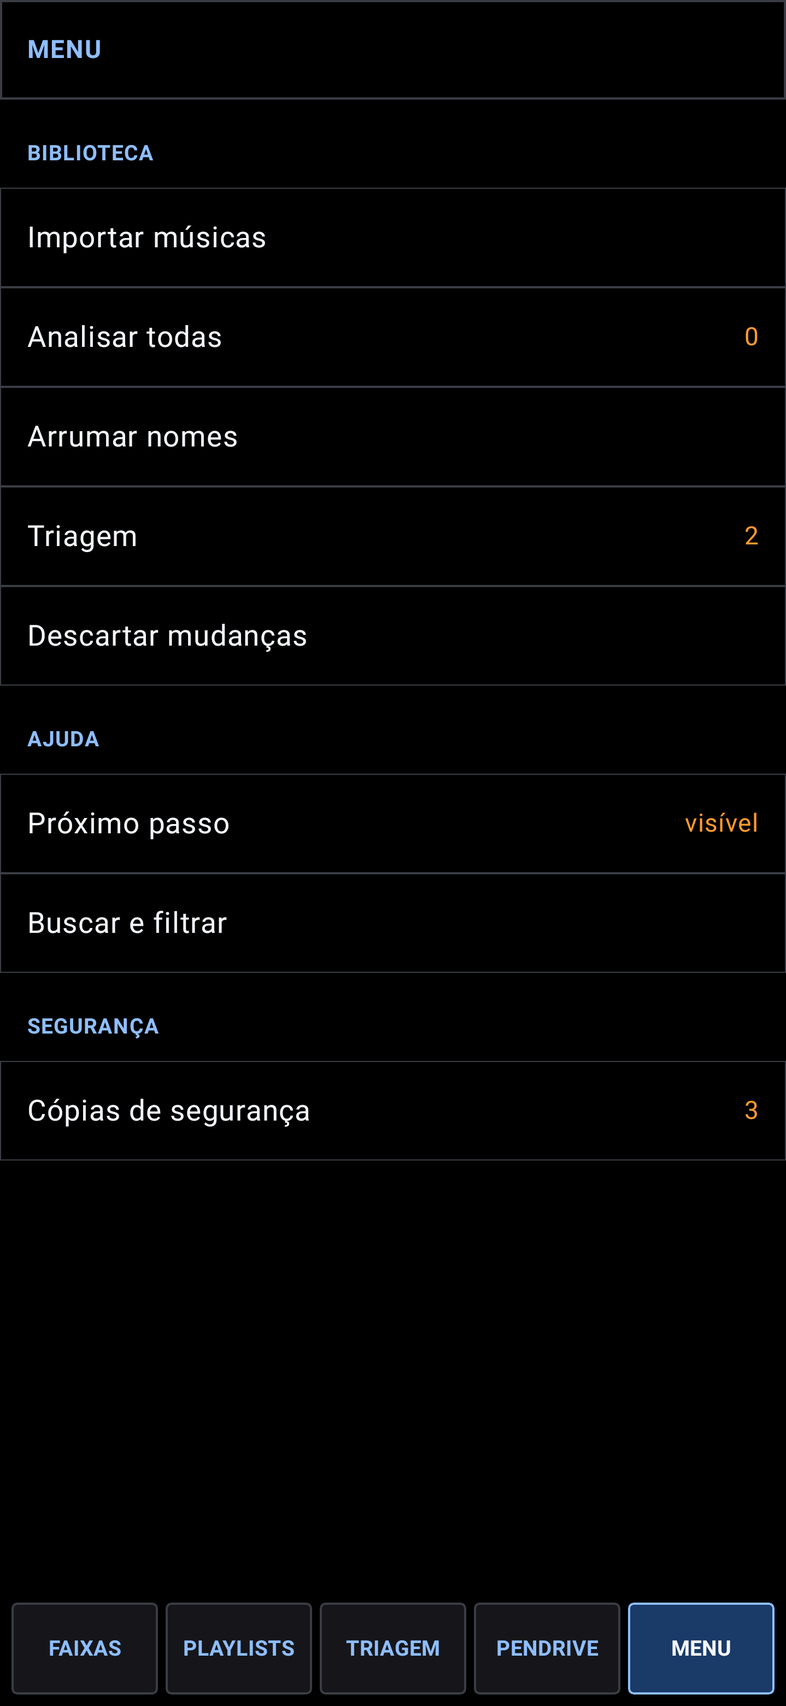
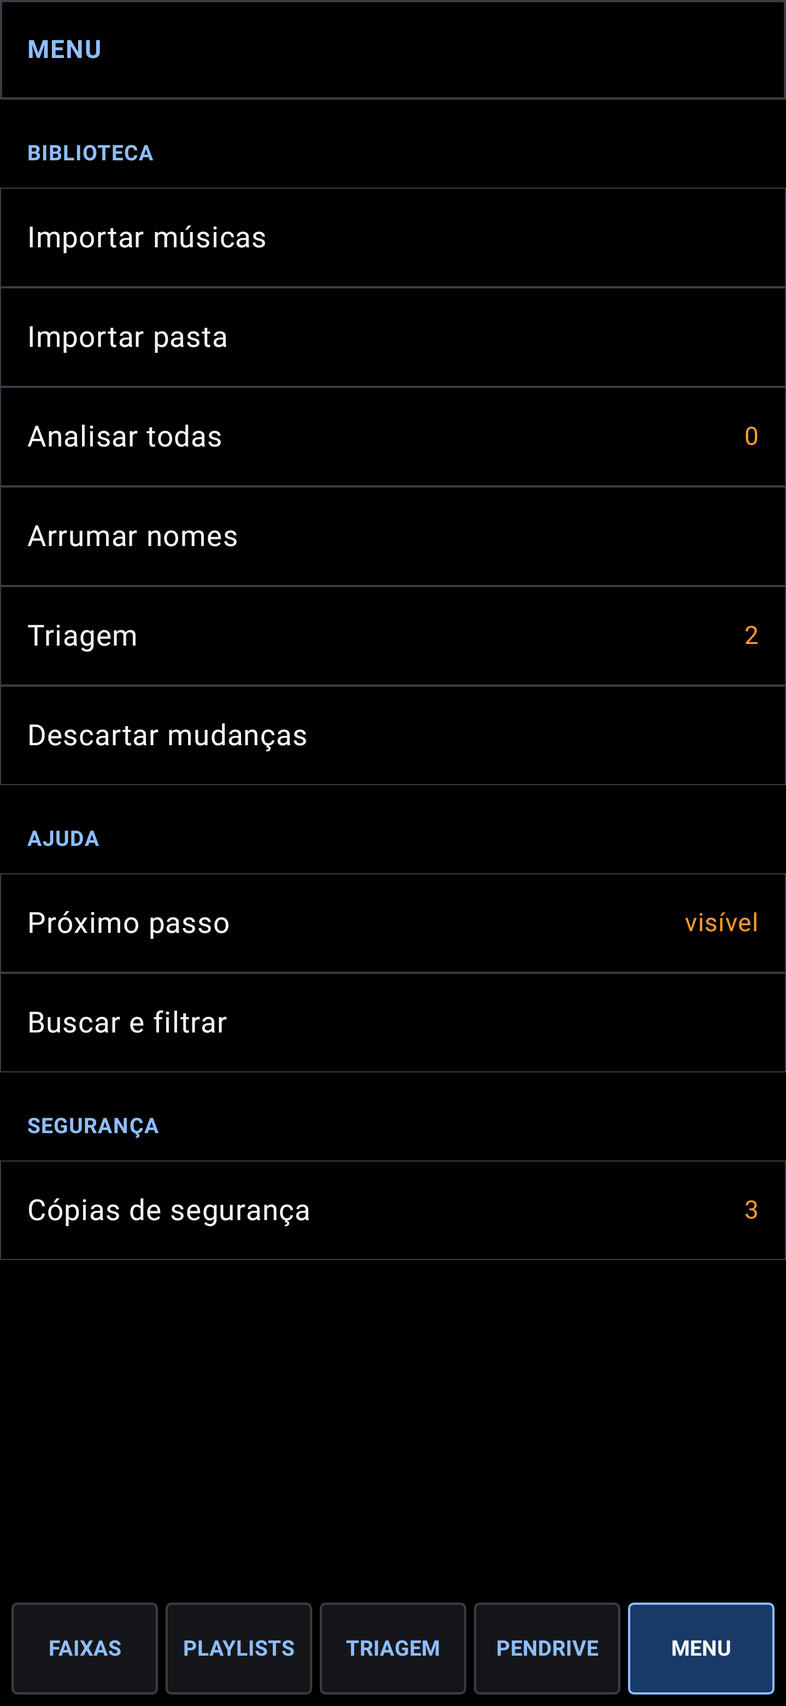
Ouvir pela onda (MARCAR e triagem), playlists como botões na faixa, importar pasta, pular repetidas, vibração ao marcar
Claude-Session: https://claude.ai/code/session_01Sb59H5wbN2UPN3Jxgrj5kb

diff --git a/mobile/app/src/main/kotlin/os/deckbridge/manager/mobile/ManagerApp.kt b/mobile/app/src/main/kotlin/os/deckbridge/manager/mobile/ManagerApp.kt
@@ -237,47 +237,83 @@ class ManagerApp(val context: Context, val root: File = defaultRoot(context)) {
 
     fun importAudio(uris: List<Uri>) {
         if (uris.isEmpty()) return
-        background("Importando ${uris.size} faixa(s)") { j ->
-            val cache = File(context.cacheDir, "importar").apply { deleteRecursively(); mkdirs() }
-            val edits = ArrayList<Pair<Edit, String>>()
-            var failed = 0
-            var imported = 0
-            val firstError = StringBuilder()
-            // Em lotes de 6: grava no aparelho e solta as análises da memória antes de seguir.
-            fun flush() {
-                if (edits.isEmpty()) return
-                imported += model.submitAll(edits)
-                edits.clear()
-                model.apply(null) { j.text = it }
-            }
-            try {
-                uris.forEachIndexed { n, uri ->
+        background("Importando") { j -> importInto(j, uris.mapIndexed { n, u -> u to (displayName(u) ?: "faixa-$n") }) }
+    }
+
+    /** Importa todos os áudios de uma pasta (e subpastas) escolhida no seletor. */
+    fun importFolder(tree: Uri) {
+        background("Importando pasta") { j ->
+            j.text = "Procurando músicas"
+            val root = androidx.documentfile.provider.DocumentFile.fromTreeUri(context, tree) ?: throw ExportException("E_SAF_ROOT", "Pasta ilegível")
+            val found = ArrayList<Pair<Uri, String>>()
+            fun walk(dir: androidx.documentfile.provider.DocumentFile) {
+                for (f in dir.listFiles()) {
                     if (j.cancelled) throw Cancelled()
-                    val name = displayName(uri) ?: "faixa-$n"
-                    j.text = "Lendo e analisando ${n + 1}/${uris.size}: $name"
-                    val copy = File(cache, "%03d-%s".format(n, name.replace(Regex("[\\\\/:*?\"<>|]"), "_")))
-                    try {
-                        context.contentResolver.openInputStream(uri)!!.use { i -> copy.outputStream().use { i.copyTo(it) } }
-                        val p = ImportPrep.prepare(copy)
-                        edits += Edit.ImportTrack(p, p.info.title, p.info.artist, p.info.album, p.info.genre, p.read.keyName, p.info.year, p.info.trackNumber, p.suggestedCues) to "Importar \"${p.info.title}\""
-                        if (edits.size >= 6) {
-                            flush()
-                            copy.parentFile?.listFiles()?.forEach { f -> if (f != copy) f.delete() }
-                        }
-                    } catch (e: Cancelled) {
-                        throw e
-                    } catch (e: Exception) {
-                        failed++
-                        if (firstError.isEmpty()) firstError.append("$name: ${e.message}")
-                    }
+                    val name = f.name ?: continue
+                    if (f.isDirectory) walk(f) else if (os.deckbridge.manager.volume.isAudio(name)) found += f.uri to name
                 }
-                flush()
-                pruneBackups()
-                if (imported > 0) say("$imported importadas" + if (failed > 0) " · $failed falharam" else "", undo = false)
-                else say("Não importou: $firstError", error = true)
-            } finally {
-                cache.deleteRecursively()
             }
+            walk(root)
+            if (found.isEmpty()) say("Nenhuma música na pasta", error = true) else importInto(j, found.sortedBy { it.second.lowercase() })
+        }
+    }
+
+    /**
+     * Copia, confere se já existe, analisa e grava em lotes de 6 (grava no aparelho e solta as análises da memória antes
+     * de seguir). Música que já está na biblioteca (mesmo título, artista e duração) é pulada.
+     */
+    private fun importInto(j: Job, items: List<Pair<Uri, String>>) {
+        val cache = File(context.cacheDir, "importar").apply { deleteRecursively(); mkdirs() }
+        val edits = ArrayList<Pair<Edit, String>>()
+        val seen = HashSet<String>()
+        var failed = 0
+        var imported = 0
+        var dups = 0
+        val firstError = StringBuilder()
+        fun flush() {
+            if (edits.isEmpty()) return
+            imported += model.submitAll(edits)
+            edits.clear()
+            model.apply(null) { j.text = it }
+        }
+        try {
+            items.forEachIndexed { n, (uri, name) ->
+                if (j.cancelled) throw Cancelled()
+                j.text = "${n + 1}/${items.size} · $name"
+                val copy = File(cache, "%03d-%s".format(n, name.replace(Regex("[\\\\/:*?\"<>|]"), "_")))
+                try {
+                    context.contentResolver.openInputStream(uri)!!.use { i -> copy.outputStream().use { i.copyTo(it) } }
+                    val info = os.deckbridge.manager.importer.AudioIo.probe(copy)
+                    val key = "${info.title.lowercase().trim()}|${info.artist.lowercase().trim()}"
+                    val v = model.view
+                    if ((v != null && Smart.findDuplicate(v, info.title, info.artist, info.durationSec) != null) || !seen.add(key)) {
+                        dups++
+                        copy.delete()
+                        return@forEachIndexed
+                    }
+                    val p = ImportPrep.prepare(copy)
+                    edits += Edit.ImportTrack(p, p.info.title, p.info.artist, p.info.album, p.info.genre, p.read.keyName, p.info.year, p.info.trackNumber, p.suggestedCues) to "Importar \"${p.info.title}\""
+                    if (edits.size >= 6) {
+                        flush()
+                        copy.parentFile?.listFiles()?.forEach { f -> if (f != copy) f.delete() }
+                    }
+                } catch (e: Cancelled) {
+                    throw e
+                } catch (e: Exception) {
+                    failed++
+                    if (firstError.isEmpty()) firstError.append("$name: ${e.message}")
+                }
+            }
+            flush()
+            pruneBackups()
+            val parts = buildList {
+                if (imported > 0) add("$imported importadas")
+                if (dups > 0) add("$dups já estavam")
+                if (failed > 0) add("$failed falharam")
+            }
+            if (imported == 0 && dups == 0) say("Não importou: $firstError", error = true) else say(parts.joinToString(" · "))
+        } finally {
+            cache.deleteRecursively()
         }
     }
 

diff --git a/mobile/app/src/main/kotlin/os/deckbridge/manager/mobile/DetailUi.kt b/mobile/app/src/main/kotlin/os/deckbridge/manager/mobile/DetailUi.kt
@@ -77,7 +77,9 @@ fun DetailPanel(app: ManagerApp, t: TrackItem, onBack: (() -> Unit)? = null) {
         Column(Modifier.weight(1f).verticalScroll(rememberScrollState()).padding(horizontal = 14.dp, vertical = 6.dp), verticalArrangement = Arrangement.spacedBy(16.dp)) {
             when (app.detailPage) {
                 DetailPage.MARK -> {
+                    PlayableWave(app, t)
                     Marking(app, t)
+                    PlaylistChips(app, t)
                     AnalysisSection(app, t)
                 }
                 DetailPage.CUES -> CueSection(app, t)
@@ -117,6 +119,32 @@ private fun Marking(app: ManagerApp, t: TrackItem) {
             }
         }
     }
+}
+
+/** Em que playlists a faixa está: tocar liga e desliga. "＋" cria uma nova já com a faixa. */
+@Composable
+private fun PlaylistChips(app: ManagerApp, t: TrackItem) {
+    val m = app.model
+    val v = m.view ?: return
+    var naming by remember { mutableStateOf(false) }
+    val haptic = androidx.compose.ui.platform.LocalHapticFeedback.current
+    androidx.compose.foundation.lazy.LazyRow(horizontalArrangement = Arrangement.spacedBy(6.dp)) {
+        items(v.playlists.filter { !it.folder }.size) { n ->
+            val p = v.playlists.filter { !it.folder }[n]
+            val inIt = t.id in v.entries[p.id].orEmpty()
+            FilterChip(selected = inIt, onClick = {
+                haptic.performHapticFeedback(androidx.compose.ui.hapticfeedback.HapticFeedbackType.LongPress)
+                if (inIt) m.submit(Edit.RemoveFromPlaylist(p.id, listOf(t.id)), "Tirar \"${t.title}\" de \"${p.name}\"")
+                else m.submit(Edit.AddToPlaylist(p.id, listOf(t.id)), "Adicionar \"${t.title}\" a \"${p.name}\"")
+            }, label = { Text((if (inIt) "✓ " else "") + p.name, maxLines = 1) })
+        }
+        item { FilterChip(selected = false, onClick = { naming = true }, label = { Text("＋") }) }
+    }
+    if (naming) NameDialog("Nova playlist", confirm = "Criar", onName = { name ->
+        val id = m.nextPlaylistId()
+        if (m.submit(Edit.CreatePlaylist(id, 0, name, false), "Criar playlist \"$name\"")) m.submit(Edit.AddToPlaylist(id, listOf(t.id)), "Adicionar \"${t.title}\" a \"$name\"")
+        naming = false
+    }, onClose = { naming = false })
 }
 
 @Composable
@@ -227,11 +255,16 @@ private fun GridEditor(m: ManagerModel, t: TrackItem, files: ManagerModel.TrackF
  * Toque ou arraste para mudar a posição.
  */
 @Composable
-private fun Wave(files: ManagerModel.TrackFilesView, durationMs: Int, pos: Int, onPos: (Int) -> Unit) {
+private fun Wave(files: ManagerModel.TrackFilesView, durationMs: Int, pos: Int, onPos: (Int) -> Unit) =
+    ColorWaveView(files, durationMs, pos, 96.dp, marks = true, onPos = onPos, drag = true)
+
+/** A onda do player em qualquer tamanho. [marks] desenha grade e cues; [pos] negativo esconde a cabeça. */
+@Composable
+fun ColorWaveView(files: ManagerModel.TrackFilesView, durationMs: Int, pos: Int, height: androidx.compose.ui.unit.Dp, marks: Boolean, drag: Boolean = false, onPos: (Int) -> Unit) {
     Canvas(
-        Modifier.fillMaxWidth().height(96.dp).background(Palette.waveBg)
+        Modifier.fillMaxWidth().height(height).background(Palette.waveBg)
             .pointerInput(durationMs) { detectTapGestures { o -> onPos((o.x / size.width * durationMs).toInt().coerceIn(0, durationMs)) } }
-            .pointerInput(durationMs) { detectDragGestures { change, _ -> onPos((change.position.x / size.width * durationMs).toInt().coerceIn(0, durationMs)) } },
+            .let { if (drag) it.pointerInput(durationMs) { detectDragGestures { change, _ -> onPos((change.position.x / size.width * durationMs).toInt().coerceIn(0, durationMs)) } } else it },
     ) {
         val w = size.width
         val h = size.height
@@ -255,7 +288,7 @@ private fun Wave(files: ManagerModel.TrackFilesView, durationMs: Int, pos: Int, 
             drawLine(Palette.line, Offset(0f, mid), Offset(w, mid), 2f)
         }
         // Grade só como marcas curtas em cima e embaixo, para não cobrir a onda.
-        for (b in files.beats) {
+        if (marks) for (b in files.beats) {
             val x = b.timeMs.toFloat() / durationMs * w
             val bar = b.inBar == 1
             val len = if (bar) h * 0.16f else h * 0.07f
@@ -263,15 +296,39 @@ private fun Wave(files: ManagerModel.TrackFilesView, durationMs: Int, pos: Int, 
             drawLine(color, Offset(x, 0f), Offset(x, len), if (bar) 2f else 1f)
             drawLine(color, Offset(x, h - len), Offset(x, h), if (bar) 2f else 1f)
         }
-        for (c in files.cues) {
+        if (marks) for (c in files.cues) {
             val x = c.timeMs.toFloat() / durationMs * w
             val color = if (c.isHot) rgb(c.rgb ?: padRgb(c.hot)) else Palette.orange
             drawLine(color, Offset(x, 0f), Offset(x, h), 2f)
             drawRect(color, Offset(x - 6f, 0f), Size(12f, 12f))
         }
-        val px = pos.toFloat() / durationMs * w
-        drawLine(Palette.text, Offset(px, 0f), Offset(px, h), 3f)
+        if (pos >= 0) {
+            val px = pos.toFloat() / durationMs * w
+            drawLine(Palette.text, Offset(px, 0f), Offset(px, h), 3f)
+        }
     }
+}
+
+/**
+ * Onda pequena que toca: tocar num ponto ouve dali; enquanto toca, a cabeça anda. Usada na aba MARCAR e na triagem,
+ * para decidir sem abrir os cues.
+ */
+@Composable
+fun PlayableWave(app: ManagerApp, t: TrackItem, height: androidx.compose.ui.unit.Dp = 56.dp) {
+    val m = app.model
+    val files = remember(t.id, t.analyzePath, m.pending.size) { m.trackFiles(t) }
+    if (files.error != null) return
+    val duration = files.durationMs.coerceAtLeast(1)
+    var head by remember(t.id) { mutableIntStateOf(-1) }
+    val playing = app.preview.playingId == t.id
+    androidx.compose.runtime.LaunchedEffect(playing) {
+        while (playing && app.preview.playingId == t.id) {
+            head = app.preview.positionMs()
+            kotlinx.coroutines.delay(100)
+        }
+        head = -1
+    }
+    ColorWaveView(files, duration, if (playing) head else -1, height, marks = false) { ms -> app.preview.toggle(t, fromMs = ms.coerceAtLeast(1)) }
 }
 
 @Composable

diff --git a/mobile/app/src/main/kotlin/os/deckbridge/manager/mobile/TriageUi.kt b/mobile/app/src/main/kotlin/os/deckbridge/manager/mobile/TriageUi.kt
@@ -83,7 +83,9 @@ private fun TrackCard(app: ManagerApp, t: TrackItem) {
     Column(Modifier.fillMaxWidth(), verticalArrangement = Arrangement.spacedBy(4.dp)) {
         Text(t.title.ifEmpty { t.fileName }, color = Palette.text, fontSize = 24.sp, fontWeight = FontWeight.Bold, maxLines = 2, overflow = TextOverflow.Ellipsis)
         Text(t.artist.ifEmpty { "—" }, color = Palette.muted, fontSize = 16.sp, maxLines = 1)
-        Text(listOf(if (t.bpm > 0) "%.1f".format(t.bpm) else "—", t.key.ifEmpty { "—" }, formatDuration(t.durationSeconds)).joinToString("  ·  "), color = Palette.mutedBright, fontSize = 15.sp, fontFamily = Mono, modifier = Modifier.padding(top = 4.dp))
+        Text(listOf(if (t.bpm > 0) "%.1f".format(t.bpm) else "—", t.key.ifEmpty { "—" }, formatDuration(t.durationSeconds)).joinToString("  ·  "), color = Palette.mutedBright, fontSize = 15.sp, fontFamily = Mono, modifier = Modifier.padding(top = 4.dp, bottom = 6.dp))
+        // Tocar na onda ouve daquele ponto: dá para pular direto para o drop.
+        PlayableWave(app, t, 64.dp)
         // Botão de tocar na cor do PLAY do player: verde-claro com texto escuro.
         Box(Modifier.fillMaxWidth().padding(top = 6.dp).height(52.dp).clip(RbShape).background(if (playing) Palette.surfaceHigh else Palette.playBg).clickable { app.preview.toggle(t) }, contentAlignment = Alignment.Center) {
             Text(if (playing) "■ PARAR" else "▶ OUVIR", color = if (playing) Palette.blue else Palette.playInk, fontWeight = FontWeight.Bold, letterSpacing = 0.6.sp)
@@ -96,7 +98,9 @@ private fun Controls(app: ManagerApp, t: TrackItem, at: Int, total: Int, compact
     val big = if (compact) 52.dp else 64.dp
     val mid = if (compact) 44.dp else 56.dp
     val m = app.model
+    val haptic = androidx.compose.ui.platform.LocalHapticFeedback.current
     fun rate(n: Int) {
+        haptic.performHapticFeedback(androidx.compose.ui.hapticfeedback.HapticFeedbackType.LongPress)
         m.submit(Edit.SetTracks(listOf(t.id), TrackPatch(rating = n)), "Nota $n em \"${t.title}\"")
         advance()
     }

diff --git a/mobile/app/src/main/kotlin/os/deckbridge/manager/mobile/LibraryUi.kt b/mobile/app/src/main/kotlin/os/deckbridge/manager/mobile/LibraryUi.kt
@@ -146,8 +146,9 @@ private fun EmptyList(app: ManagerApp, actions: Actions) {
     Column(Modifier.fillMaxWidth().padding(28.dp), horizontalAlignment = Alignment.CenterHorizontally, verticalArrangement = Arrangement.spacedBy(12.dp)) {
         if (m.view?.tracks?.isEmpty() == true) {
             Text("A biblioteca está vazia.", color = Palette.text, fontSize = 18.sp, fontWeight = FontWeight.SemiBold)
-            Text("Importe músicas do aparelho (WAV, MP3, FLAC, AAC). Elas são analisadas aqui mesmo: BPM, tom, grade e cues.", color = Palette.muted, fontSize = 14.sp)
+            Text("WAV · MP3 · FLAC · AAC", color = Palette.muted, fontSize = 14.sp)
             Button(onClick = actions.pickAudio, modifier = Modifier.height(52.dp)) { Text("IMPORTAR MÚSICAS") }
+            OutlinedButton(onClick = actions.pickFolder, modifier = Modifier.height(48.dp)) { Text("IMPORTAR PASTA") }
         } else {
             Text("Nenhuma faixa nesta lista.", color = Palette.text, fontSize = 18.sp, fontWeight = FontWeight.SemiBold)
             Text(if (m.filter != QuickFilter.ALL) m.filter.hint else "Mude a busca.", color = Palette.muted, fontSize = 14.sp)

diff --git a/core/src/main/kotlin/os/deckbridge/manager/smart/Smart.kt b/core/src/main/kotlin/os/deckbridge/manager/smart/Smart.kt
@@ -165,6 +165,19 @@ object Smart {
         return out
     }
 
+    private fun norm(x: String) = x.lowercase().replace(Regex("\\s+"), " ").trim()
+
+    /**
+     * A faixa que já está na biblioteca com o mesmo título e artista (sem diferença de caixa e espaços) e duração a até
+     * 2 s; null se não há. Serve para não importar a mesma música duas vezes.
+     */
+    fun findDuplicate(view: LibraryView, title: String, artist: String, durationSec: Int): TrackItem? {
+        val t = norm(title)
+        val a = norm(artist)
+        if (t.isEmpty()) return null
+        return view.tracks.firstOrNull { norm(it.title) == t && norm(it.artist) == a && kotlin.math.abs(it.durationSeconds - durationSec) <= 2 }
+    }
+
     /** Fila da triagem: sem nota primeiro, na ordem em que foram importadas; depois as já marcadas. */
     fun triageQueue(view: LibraryView): List<Int> = view.tracks.sortedWith(compareBy({ it.rating != 0 }, { it.id })).map { it.id }
 

diff --git a/mobile/app/src/main/kotlin/os/deckbridge/manager/mobile/ManagerActivity.kt b/mobile/app/src/main/kotlin/os/deckbridge/manager/mobile/ManagerActivity.kt
@@ -62,7 +62,8 @@ class ManagerActivity : ComponentActivity() {
 private fun Content(app: ManagerApp) {
     val pickAudio = rememberLauncherForActivityResult(ActivityResultContracts.OpenMultipleDocuments()) { uris: List<Uri> -> app.importAudio(uris) }
     val pickUsb = rememberLauncherForActivityResult(ActivityResultContracts.OpenDocumentTree()) { uri: Uri? -> if (uri != null) app.chooseUsb(uri) }
+    val pickFolder = rememberLauncherForActivityResult(ActivityResultContracts.OpenDocumentTree()) { uri: Uri? -> if (uri != null) app.importFolder(uri) }
     LaunchedEffect(Unit) { if (!app.model.isOpen) app.start() }
-    val actions = remember { Actions(pickAudio = { pickAudio.launch(arrayOf("audio/*")) }, pickUsb = { pickUsb.launch(null) }) }
+    val actions = remember { Actions(pickAudio = { pickAudio.launch(arrayOf("audio/*")) }, pickUsb = { pickUsb.launch(null) }, pickFolder = { pickFolder.launch(null) }) }
     ManagerRoot(app, actions)
 }

diff --git a/mobile/app/src/test/kotlin/os/deckbridge/manager/mobile/UxFlowTest.kt b/mobile/app/src/test/kotlin/os/deckbridge/manager/mobile/UxFlowTest.kt
@@ -93,4 +93,19 @@ class UxFlowTest {
         assertTrue(a.model.rows().all { it.rating >= 4 })
         assertTrue(a.model.rows().isNotEmpty())
     }
+
+    @Test fun playlistChipsOnTheTrackToggleMembershipInOneTap() {
+        val a = app()
+        a.hideGuide()
+        val t = a.model.view!!.tracks.first { it.title == "Night Signal" }
+        assertTrue(t.id !in a.model.view!!.entries[2].orEmpty())
+        a.detailId = t.id
+        rule.setContent { ManagerRoot(a, noActions) }
+        rule.onNodeWithText("Aquecimento").performClick()
+        rule.waitForIdle()
+        assertTrue(t.id in a.model.view!!.entries[2].orEmpty())
+        rule.onNodeWithText("✓ Aquecimento").performClick()
+        rule.waitForIdle()
+        assertTrue(t.id !in a.model.view!!.entries[2].orEmpty())
+    }
 }

diff --git a/core/src/test/kotlin/os/deckbridge/manager/SmartTest.kt b/core/src/test/kotlin/os/deckbridge/manager/SmartTest.kt
@@ -92,4 +92,12 @@ class SmartTest {
         val v = view(listOf(t(1, rating = 5), t(2), t(3, rating = 1), t(4)))
         assertEquals(listOf(2, 4, 1, 3), Smart.triageQueue(v))
     }
+
+    @Test fun `duplicata por titulo, artista e duracao`() {
+        val v = view(listOf(t(1, title = "Night Signal", artist = "Aurora Drive").copy(durationSeconds = 300)))
+        assertEquals(1, Smart.findDuplicate(v, "  night   SIGNAL ", "aurora drive", 301)?.id)
+        assertNull(Smart.findDuplicate(v, "Night Signal", "Aurora Drive", 310), "duração muito diferente: outra versão")
+        assertNull(Smart.findDuplicate(v, "Night Signal", "Outro Artista", 300))
+        assertNull(Smart.findDuplicate(v, "", "", 300))
+    }
 }

diff --git a/mobile/app/src/main/kotlin/os/deckbridge/manager/mobile/MenuUi.kt b/mobile/app/src/main/kotlin/os/deckbridge/manager/mobile/MenuUi.kt
@@ -31,6 +31,7 @@ fun MenuTab(app: ManagerApp, actions: Actions) {
     Column(Modifier.fillMaxSize().verticalScroll(rememberScrollState())) {
         Section("Biblioteca")
         Line("Importar músicas", "") { actions.pickAudio() }
+        Line("Importar pasta", "") { actions.pickFolder() }
         Line("Analisar todas", "${counts[QuickFilter.UNANALYZED] ?: 0}") { app.analyzeAll() }
         Line("Arrumar nomes", "") { app.openTidy() }
         Line("Triagem", "${counts[QuickFilter.UNRATED] ?: 0}") { app.startTriage() }

diff --git a/mobile/app/src/main/kotlin/os/deckbridge/manager/mobile/Preview.kt b/mobile/app/src/main/kotlin/os/deckbridge/manager/mobile/Preview.kt
@@ -28,6 +28,9 @@ class Preview(private val app: ManagerApp) {
 
     val isPlaying: Boolean get() = player != null
 
+    /** Posição atual em ms (0 se parado), para a cabeça andar sobre a onda. */
+    fun positionMs(): Int = runCatching { player?.currentPosition ?: 0 }.getOrDefault(0)
+
     fun toggle(t: TrackItem, fromMs: Int = 0) {
         if (playingId == t.id && fromMs == 0) {
             stop()

diff --git a/mobile/app/src/main/kotlin/os/deckbridge/manager/mobile/Ui.kt b/mobile/app/src/main/kotlin/os/deckbridge/manager/mobile/Ui.kt
@@ -214,4 +214,4 @@ private fun NoticeToast(app: ManagerApp) {
 }
 
 /** O que a tela pede à atividade (seletores de arquivo do sistema). */
-class Actions(val pickAudio: () -> Unit, val pickUsb: () -> Unit)
+class Actions(val pickAudio: () -> Unit, val pickUsb: () -> Unit, val pickFolder: () -> Unit = {})

diff --git a/STATUS.md b/STATUS.md
@@ -234,5 +234,5 @@ A constituição 1.1.0 está em `.specify/memory/constitution.md`. A emenda é a
 - Duplicado de propósito: o leitor do pendrive (Kotlin no app, C++ no Pi). Os dois estão presos pelo `RekordboxGoldenTest`.
 - Demonstração no PC (Xvfb): a tela do Pi mixou duas faixas por roteiro MIDI da DDJ-400, com Beat FX, loops, SYNC e RMX (cenas e X-PAD). Ver `pi/demo/README.md`.
 - Library Manager de desktop (ADR-0009, OD-25): programa em `desktop/`, único que escreve no pendrive. Organiza a biblioteca à mão: metadados, playlists, cues e grade (ANLZ), importar áudio com análise, renomear arquivos por padrão, remover, compactar, Organizar por regras (sem IA), arrastar e soltar. Gravação com backup, execução com desfazer em ordem inversa, verificação e restauração (que nunca apaga áudio). Núcleo em `core/` (compartilhado com o app de celular): 83 testes, lido por quatro leitores independentes (Kotlin, C++ do Pi, Kaitai do banco e do ANLZ) e conferido contra exports reais do rekordbox (páginas das tabelas constantes idênticas byte a byte; biblioteca real de 3886 faixas editada e relida igual). Biblioteca local no computador (`~/.deckbridge/library`), exportar para pendrive e trazer de pendrive. **Nenhum player nem o rekordbox leu o que ele grava (`BLOCKED_HARDWARE`)**: teste numa cópia primeiro. Fora, de propósito: classificação/pontuação por modelo, etiquetas dentro do áudio. Ver `desktop/README.md`.
-- App de celular da biblioteca (ADR-0010, `mobile/`, `os.deckbridge.manager`): biblioteca salva no aparelho, em pé e deitado (referência Galaxy S25 Ultra), importar e analisar, marcar (nota, cor, comentário), playlists, grade e cues, exportar para pendrive pelo seletor de documentos do Android e trazer de pendrive. Atalhos de uso repetido (filtros rápidos com contagem, busca com `bpm:`/`tom:`/`nota:`, playlist alvo de um toque, triagem, editar em lote, Arrumar tudo, analisar todas, refazer, pré-checagem de exportação): ver `mobile/README.md`; os principais também estão no desktop. 29 testes de JVM (capturas em 1440×3120 e 3120×1440; toques simulados em atalhos de uso repetido; exportação completa por um provedor de documentos de brinquedo). **Não rodou em aparelho**: decodificação de MP3/FLAC (MediaCodec), pendrive USB real no S25 Ultra e toque na tela são `BLOCKED_HARDWARE`. Ver `mobile/README.md`.
+- App de celular da biblioteca (ADR-0010, `mobile/`, `os.deckbridge.manager`): biblioteca salva no aparelho, em pé e deitado (referência Galaxy S25 Ultra), importar e analisar, marcar (nota, cor, comentário), playlists, grade e cues, exportar para pendrive pelo seletor de documentos do Android e trazer de pendrive. Atalhos de uso repetido (filtros rápidos com contagem, busca com `bpm:`/`tom:`/`nota:`, playlist alvo de um toque, triagem, editar em lote, Arrumar tudo, analisar todas, refazer, pré-checagem de exportação): ver `mobile/README.md`; os principais também estão no desktop. 30 testes de JVM (capturas em 1440×3120 e 3120×1440; toques simulados em atalhos de uso repetido; exportação completa por um provedor de documentos de brinquedo). **Não rodou em aparelho**: decodificação de MP3/FLAC (MediaCodec), pendrive USB real no S25 Ultra e toque na tela são `BLOCKED_HARDWARE`. Ver `mobile/README.md`.
 - Nada disto rodou num Pi, num tablet nem na DDJ-400 (`BLOCKED_HARDWARE`).
